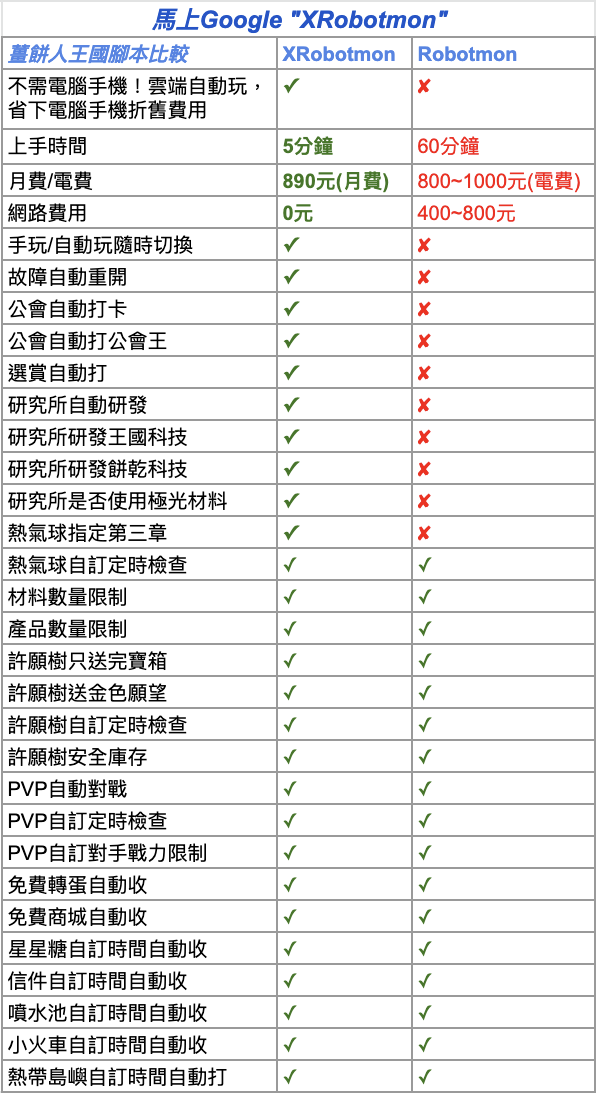
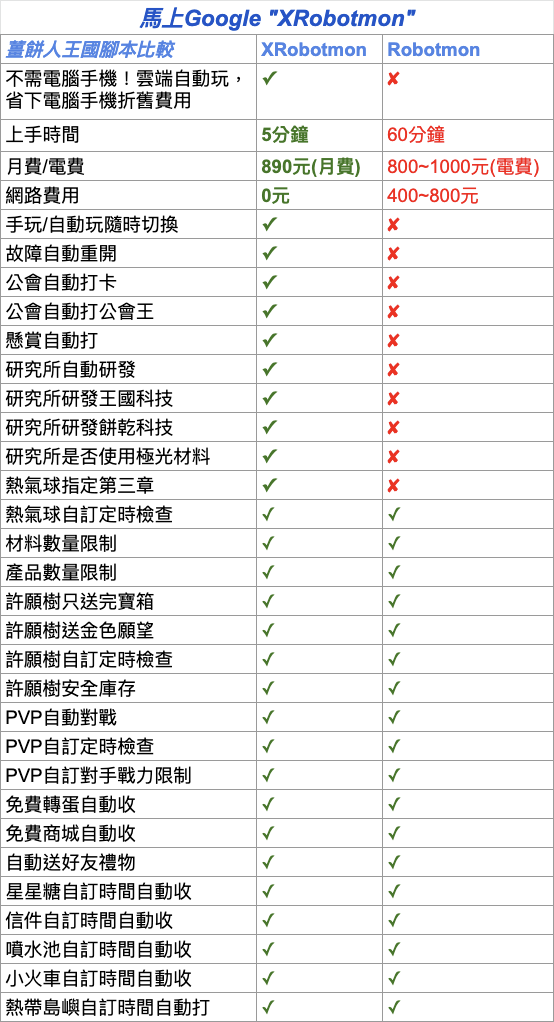
add enUS image

Changed region(s): [[0.0, 0.0, 1.0, 1.0]]

diff --git a/scripts/com.r2studio.CookieKingdom/index.html b/scripts/com.r2studio.CookieKingdom/index.html
@@ -666,10 +666,8 @@
       const locale = localStorage.getItem('cookieFactoriaoAutoLanguage');
       if (locale === "zh-TW") {
         $("#xrimg").attr("src", "https://raw.githubusercontent.com/r2-studio/robotmon-scripts/master/scripts/com.r2studio.CookieKingdom/XRvsR_zh-TW.png");
-        $("#xrimg").show();
       } else {
-        // TODO english table
-        $("#xrimg").hide();
+        $("#xrimg").attr("src", "https://raw.githubusercontent.com/r2-studio/robotmon-scripts/master/scripts/com.r2studio.CookieKingdom/XRvsR_en-US.png");
       }
     });
 
